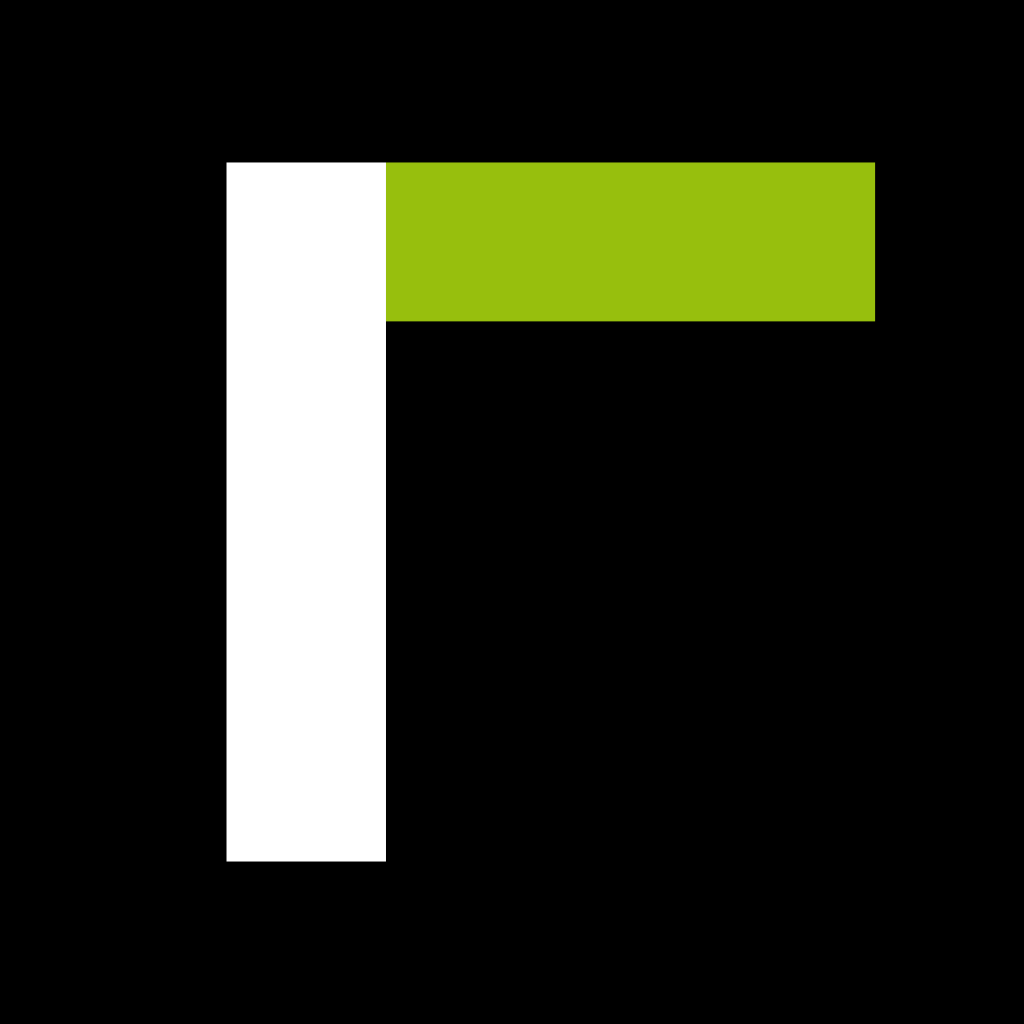
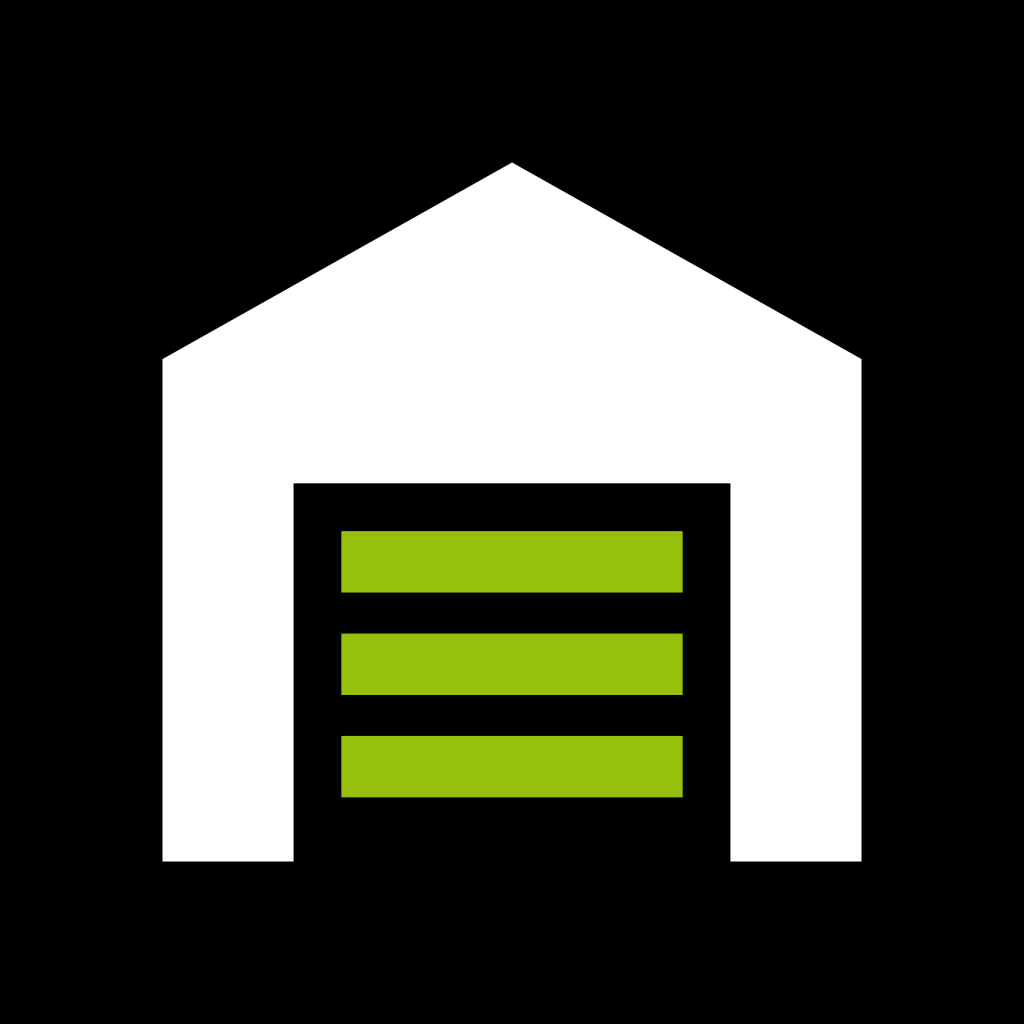
Знак гаража — ворота гаража вместо буквы Г: белый силуэт с крышей и лаймовые секции ворот

diff --git a/resources/views/components/ui/brand.blade.php b/resources/views/components/ui/brand.blade.php
@@ -1,5 +1,5 @@
 {{-- Логотип приложения в шапке — знак с его иконки, в цвете темы: CRM — надпись CRM,
-     стоянка — P, гараж — Г, сайт — знак xcar на десктопе и широкий логотип на телефоне (wide).
+     стоянка — P, гараж — ворота гаража, сайт — знак xcar на десктопе и широкий логотип на телефоне (wide).
      Высота — классом (h-10 / h-16). --}}
 @props(['class' => 'h-10', 'wide' => false])
 @php
@@ -7,7 +7,7 @@
     [$name, $w, $h] = match ($surface) {
         \App\Support\Surface::Crm => ['crm', 1300, 335],
         \App\Support\Surface::Park => ['park', 960, 1024],
-        \App\Support\Surface::Garage => ['garage', 951, 1024],
+        \App\Support\Surface::Garage => ['garage', 1024, 1024],
         default => $wide ? ['xcar', 180, 45] : ['xcar-mark', 64, 64],
     };
 @endphp
